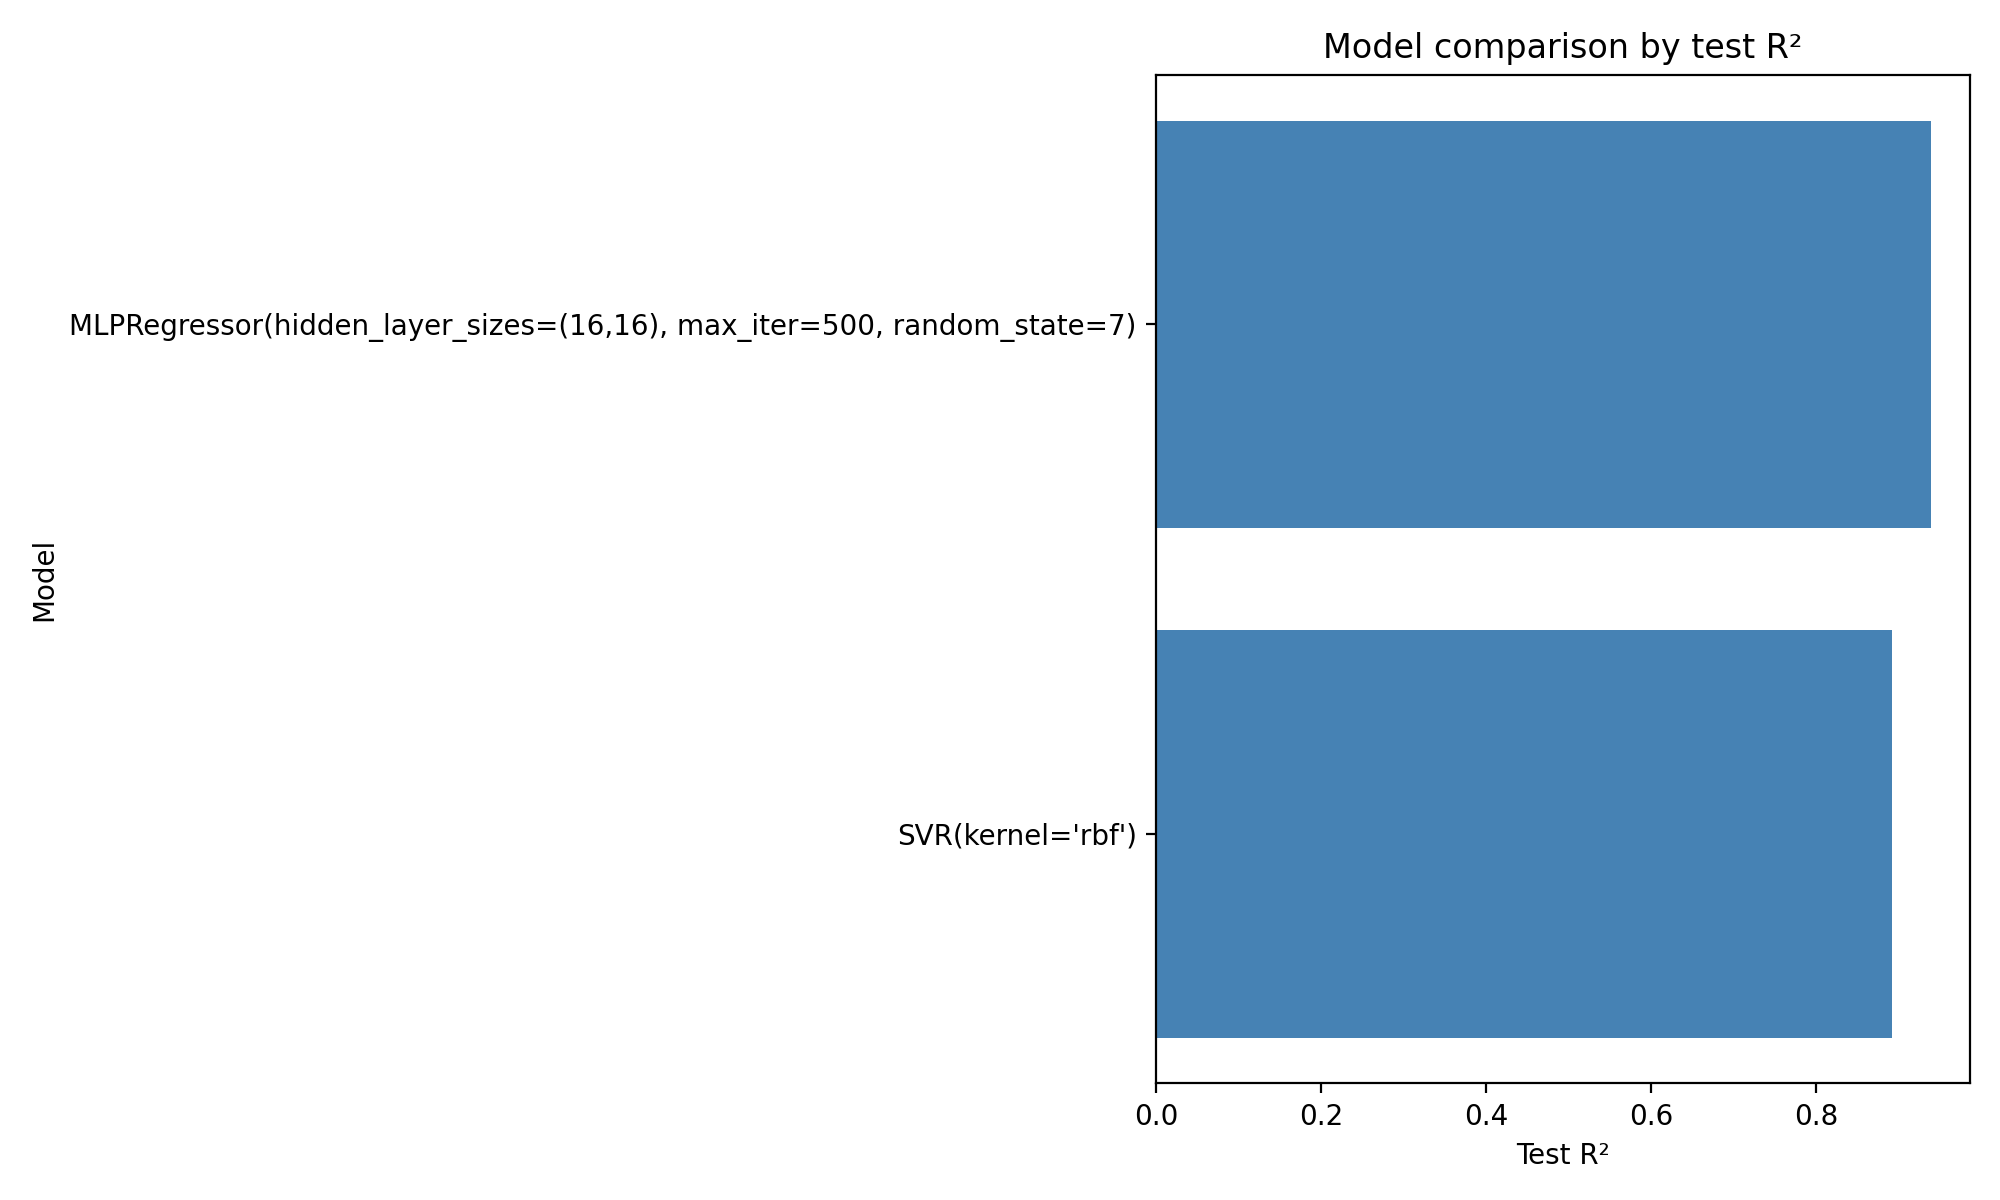
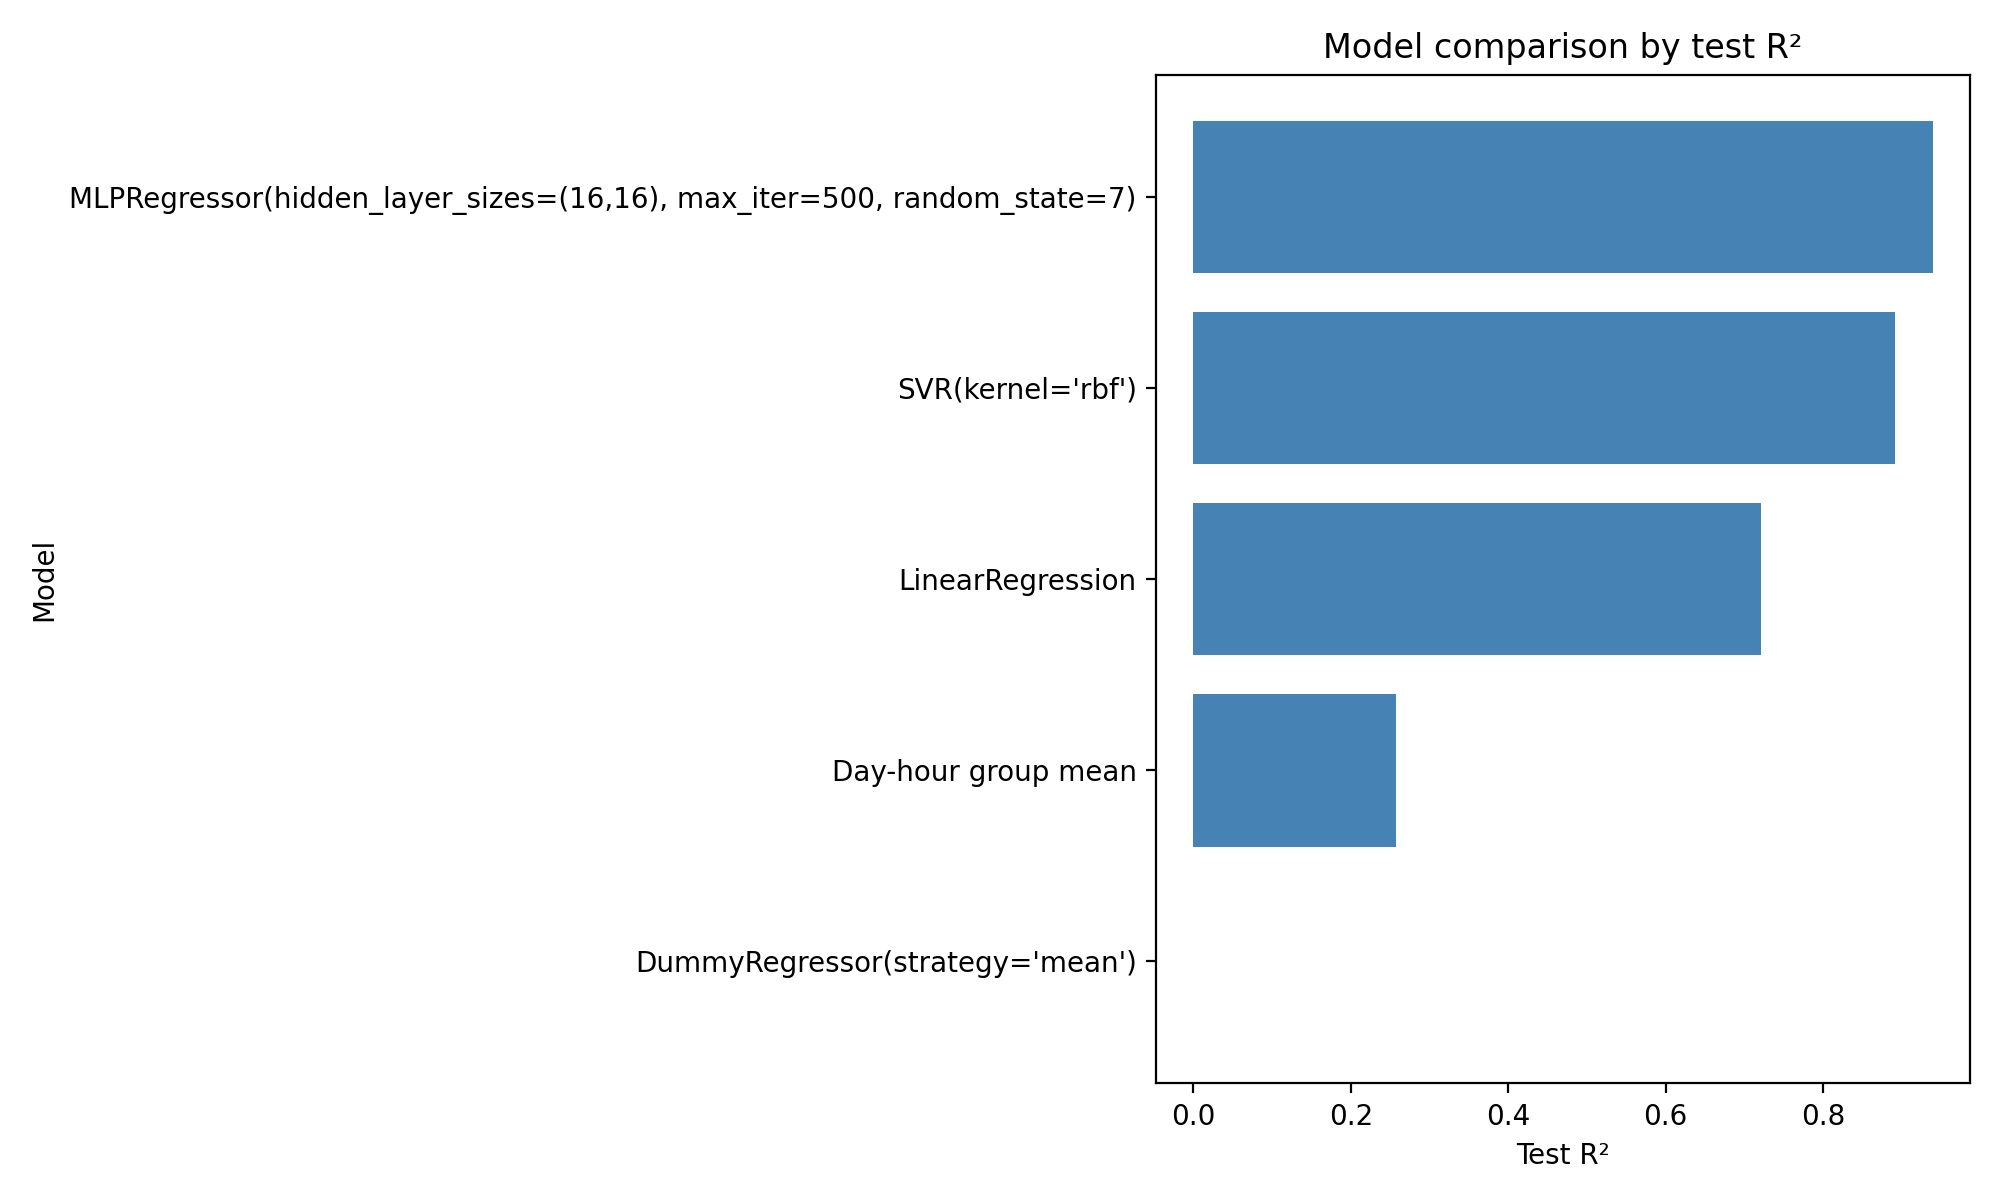
Add EDA and baseline regression comparison

diff --git a/eda_baseline_ml.py b/eda_baseline_ml.py
@@ -1,0 +1,209 @@
+from pathlib import Path
+import warnings
+
+import matplotlib
+
+matplotlib.use("Agg")
+import matplotlib.pyplot as plt
+import numpy as np
+import pandas as pd
+from sklearn.base import BaseEstimator, RegressorMixin
+from sklearn.compose import ColumnTransformer
+from sklearn.dummy import DummyRegressor
+from sklearn.exceptions import ConvergenceWarning
+from sklearn.linear_model import LinearRegression
+from sklearn.metrics import mean_absolute_error, mean_squared_error, r2_score
+from sklearn.model_selection import KFold, cross_val_score, train_test_split
+from sklearn.neural_network import MLPRegressor
+from sklearn.pipeline import Pipeline
+from sklearn.preprocessing import OneHotEncoder, StandardScaler
+from sklearn.svm import SVR
+
+BASE_DIR = Path(__file__).resolve().parent
+DATA_PATH = BASE_DIR / "data.csv"
+TARGET_COL = "value"
+RANDOM_STATE = 7
+TEST_SIZE = 0.25
+DAY_ORDER = ["Mon", "Tue", "Wed", "Thu", "Fri", "Sat", "Sun"]
+FEATURES = ["facility_code", "day_of_week", "time_band", "tb_sin", "tb_cos"]
+
+
+class DayHourMeanRegressor(RegressorMixin, BaseEstimator):
+    def fit(self, X: pd.DataFrame, y: pd.Series) -> "DayHourMeanRegressor":
+        self.global_mean_ = float(np.mean(y))
+        grouped = pd.DataFrame(
+            {
+                "day_of_week": X["day_of_week"].to_numpy(),
+                "time_band": X["time_band"].to_numpy(),
+                "target": np.asarray(y),
+            }
+        )
+        self.group_means_ = grouped.groupby(["day_of_week", "time_band"])["target"].mean()
+        return self
+
+    def predict(self, X: pd.DataFrame) -> np.ndarray:
+        keys = pd.MultiIndex.from_arrays([X["day_of_week"], X["time_band"]])
+        predictions = self.group_means_.reindex(keys).to_numpy(dtype=float)
+        return np.where(np.isnan(predictions), self.global_mean_, predictions)
+
+
+def load_dataset() -> pd.DataFrame:
+    df = pd.read_csv(DATA_PATH)
+    df = df.drop(columns=["row_id", "day_name_long", "data_uploaded"])
+    df["facility_code"] = df["facility_code"].astype(str)
+    df["time_band"] = df["time_band"].astype(float)
+    df["tb_sin"] = np.sin(2 * np.pi * df["time_band"] / 24)
+    df["tb_cos"] = np.cos(2 * np.pi * df["time_band"] / 24)
+    return df
+
+
+def build_preprocessor() -> ColumnTransformer:
+    return ColumnTransformer(
+        transformers=[
+            ("cat", OneHotEncoder(handle_unknown="ignore"), ["facility_code", "day_of_week"]),
+            ("num", StandardScaler(), ["time_band", "tb_sin", "tb_cos"]),
+        ]
+    )
+
+
+def make_pipeline(model: object, preprocess: bool = True) -> Pipeline:
+    preprocessor: object = build_preprocessor() if preprocess else "passthrough"
+    return Pipeline([("preprocessor", preprocessor), ("model", model)])
+
+
+def run_eda(df: pd.DataFrame) -> None:
+    print("\n=== 1. EDA ===")
+    print("\nDescriptive statistics")
+    print(df.describe().to_string())
+    print("\nMissing-value count by column")
+    print(df.isna().sum().to_string())
+    print(f"Total missing values: {int(df.isna().sum().sum())}")
+
+    figure, axes = plt.subplots(2, 2, figsize=(14, 10))
+    axes[0, 0].hist(df[TARGET_COL].dropna(), bins=30, color="steelblue", edgecolor="white")
+    axes[0, 0].set(title="Distribution of ED busyness", xlabel="Value", ylabel="Count")
+
+    df.groupby("time_band")[TARGET_COL].mean().sort_index().plot(
+        ax=axes[0, 1], marker="o", color="darkorange"
+    )
+    axes[0, 1].set(title="Mean value by time band", xlabel="Time band", ylabel="Mean value")
+
+    day_means = df.groupby("day_name")[TARGET_COL].mean().reindex(DAY_ORDER)
+    axes[1, 0].bar(day_means.index, day_means.values, color="seagreen")
+    axes[1, 0].set(title="Mean value by day", xlabel="Day", ylabel="Mean value")
+
+    facility_means = df.groupby("facility_code")[TARGET_COL].mean().sort_values()
+    axes[1, 1].bar(facility_means.index, facility_means.values, color="slateblue")
+    axes[1, 1].set(title="Mean value by facility", xlabel="Facility code", ylabel="Mean value")
+    axes[1, 1].tick_params(axis="x", labelrotation=90)
+
+    figure.tight_layout()
+    eda_path = BASE_DIR / "eda.png"
+    figure.savefig(eda_path, dpi=200)
+    plt.close(figure)
+
+    heatmap = df.pivot_table(
+        index="day_of_week", columns="time_band", values=TARGET_COL, aggfunc="mean"
+    ).sort_index().sort_index(axis=1)
+    figure, axis = plt.subplots(figsize=(12, 6))
+    image = axis.imshow(heatmap.to_numpy(), aspect="auto", cmap="viridis")
+    axis.set_xticks(np.arange(len(heatmap.columns)), labels=heatmap.columns)
+    axis.set_yticks(np.arange(len(heatmap.index)), labels=heatmap.index)
+    axis.set(title="Mean ED busyness by day and time", xlabel="Time band", ylabel="Day of week")
+    figure.colorbar(image, ax=axis, label="Mean value")
+    figure.tight_layout()
+    heatmap_path = BASE_DIR / "heatmap.png"
+    figure.savefig(heatmap_path, dpi=200)
+    plt.close(figure)
+
+    print(f"Saved EDA plots: {eda_path} and {heatmap_path}")
+
+
+def build_models() -> dict[str, Pipeline]:
+    return {
+        "DummyRegressor(strategy='mean')": make_pipeline(DummyRegressor(strategy="mean")),
+        "Day-hour group mean": make_pipeline(DayHourMeanRegressor(), preprocess=False),
+        "LinearRegression": make_pipeline(LinearRegression()),
+        "MLPRegressor(hidden_layer_sizes=(16,16), max_iter=500, random_state=7)": make_pipeline(
+            MLPRegressor(
+                hidden_layer_sizes=(16, 16),
+                max_iter=500,
+                random_state=RANDOM_STATE,
+            )
+        ),
+        "SVR(kernel='rbf')": make_pipeline(SVR(kernel="rbf")),
+    }
+
+
+def evaluate_models(df: pd.DataFrame) -> pd.DataFrame:
+    X = df[FEATURES]
+    y = df[TARGET_COL]
+    X_train, X_test, y_train, y_test = train_test_split(
+        X,
+        y,
+        test_size=TEST_SIZE,
+        random_state=RANDOM_STATE,
+    )
+    cv = KFold(n_splits=5, shuffle=True, random_state=RANDOM_STATE)
+    rows = []
+
+    for model_index, (name, pipeline) in enumerate(build_models().items()):
+        if model_index == 0:
+            print("\n=== 2. Baseline ===")
+        elif model_index == 3:
+            print("\n=== 3. Machine learning ===")
+
+        with warnings.catch_warnings(record=True) as caught_warnings:
+            warnings.simplefilter("always", ConvergenceWarning)
+            pipeline.fit(X_train, y_train)
+            predictions = pipeline.predict(X_test)
+            cv_scores = cross_val_score(pipeline, X, y, cv=cv, scoring="r2")
+
+        seen_warnings = set()
+        for warning in caught_warnings:
+            if isinstance(warning.message, ConvergenceWarning):
+                message = str(warning.message)
+                if message not in seen_warnings:
+                    print(f"ConvergenceWarning for {name}: {message}")
+                    seen_warnings.add(message)
+
+        rows.append(
+            {
+                "model": name,
+                "test_R2": r2_score(y_test, predictions),
+                "test_RMSE": np.sqrt(mean_squared_error(y_test, predictions)),
+                "test_MAE": mean_absolute_error(y_test, predictions),
+                "CV_R2_mean": cv_scores.mean(),
+                "CV_R2_std": cv_scores.std(),
+            }
+        )
+
+    return pd.DataFrame(rows).sort_values("test_R2", ascending=False).reset_index(drop=True)
+
+
+def main() -> None:
+    df = load_dataset()
+    run_eda(df)
+    results = evaluate_models(df)
+
+    print("\nModel evaluation results")
+    print(results.to_string(index=False))
+
+    results_path = BASE_DIR / "results.csv"
+    results.to_csv(results_path, index=False)
+
+    figure, axis = plt.subplots(figsize=(10, 6))
+    axis.barh(results["model"], results["test_R2"], color="steelblue")
+    axis.set(xlabel="Test R²", ylabel="Model", title="Model comparison by test R²")
+    axis.invert_yaxis()
+    figure.tight_layout()
+    results_plot_path = BASE_DIR / "results.png"
+    figure.savefig(results_plot_path, dpi=200)
+    plt.close(figure)
+
+    print(f"\nSaved results table: {results_path}")
+    print(f"Saved test R² chart: {results_plot_path}")
+
+
+if __name__ == "__main__":
+    main()
